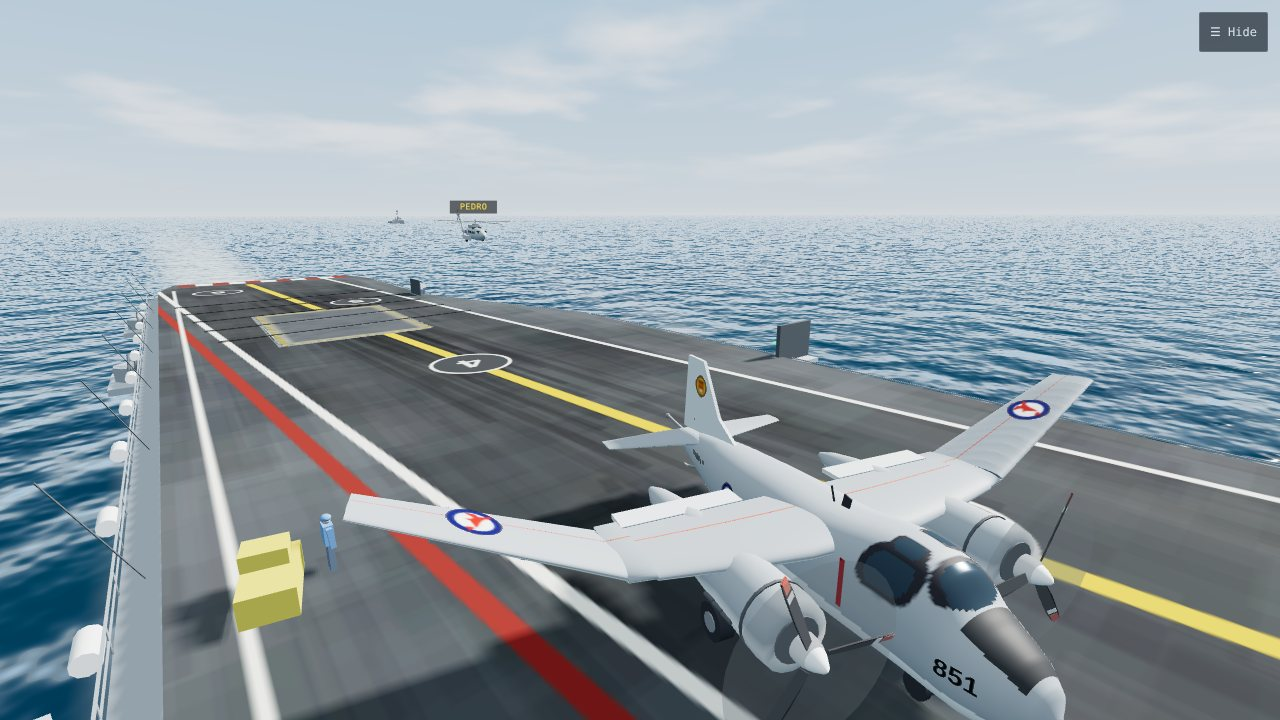
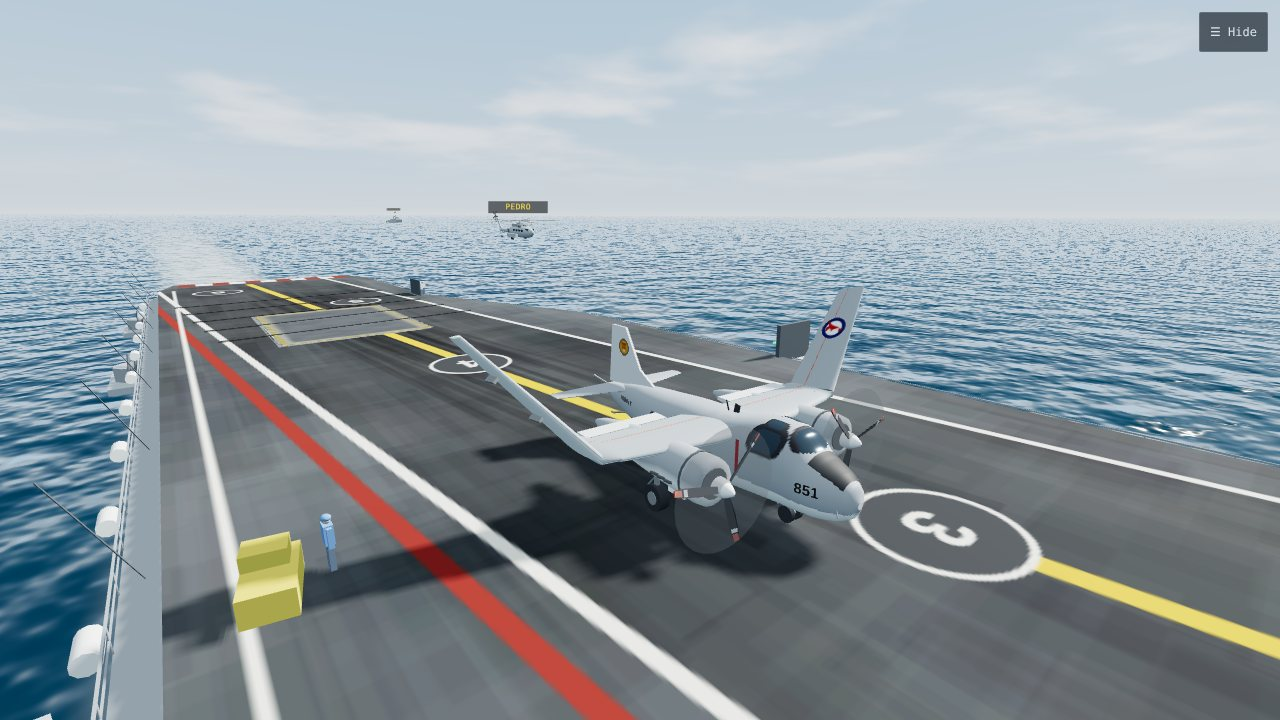
feat: home screen runs a Tracker and a Skyhawk, removes the Sea King, and adds an auto camera director
Blog-Skip: true

Claude-Session: https://claude.ai/code/session_01Gttv1KgUes6MCV2s4wpcqR

diff --git a/index.html b/index.html
@@ -911,10 +911,7 @@ const life=(function(){
   put('red',11,-22,Math.PI/2,'stand');put('red',11,-8,Math.PI/2,'stand');                         // crash crew by the island
   put('blue',12.2,-41,Math.PI/2,'stand');put('blue',9.4,14.6,Math.PI/2,'stand');                 // tractor drivers
   put('white',-13.4,73.5,Math.PI,'stand',DECK_Y-.37);put('white',-14.2,74.8,Math.PI,'stand',DECK_Y-.37);   // LSO platform, facing aft
-  const heloCrew=[put('blue',3.2,-79,PI/2,'stand'),put('yellow',3.2,-88.5,PI/2,'stop')];                 // handlers at helicopter spot 1
 
-  // parked Sea King on spot 1, blades folded
-  const parked=makeSeaKing(true);parked.g.position.set(0,DECK_Y+1.95,-83);ship.add(parked.g);
   // plane guard Sea King, hovering off the port quarter
   const guard=makeSeaKing(false);scene.add(guard.g);
   // name tags over the plane guard ("PEDRO", traditional name for the rescue helicopter on station) and the ships; they fade out with distance
@@ -922,57 +919,114 @@ const life=(function(){
   const melTag=makeTag('HMAS MELBOURNE',ship,48,9);
 
   const sm=x=>x*x*(3-2*x),clamp=(x,lo,hi)=>Math.max(lo,Math.min(hi,x));
-  /* Home screen: one S-2 runs the cycle catapult launch > climb out > away > approach down the angled deck > wire > taxi, wings folding >
-     parked 90 s > taxi to the catapult, wings spreading > launch. Everything is in ship coordinates; the numbers are game values. */
-  const amb={ph:'cat',t:0,x:CATX,z:CATZ,y:0,psi:0,pitch:0,roll:0,v:0,d:0,fold:0,spin:0,gear:1,vis:true},IDQ=new THREE.Quaternion();
-  let homeOn=false,ambClear=false;
-  const resetAmb=()=>Object.assign(amb,{ph:'cat',t:0,x:CATX,z:CATZ,y:0,psi:0,pitch:0,roll:0,v:0,d:0,fold:0,spin:0,gear:1,vis:true});
-  function path(x0,z0,psi0,x1,z1,p){                                          // taxi in an S-curve that ends straight, nose along the deck
-    const dx=(x1-x0)*6*p*(1-p),dz=z1-z0,th=Math.atan2(-dx,-dz);
-    amb.x=x0+(x1-x0)*sm(p);amb.z=z0+dz*p;amb.psi=th+(psi0-th)*(1-sm(clamp(p*4,0,1)));}
-  function stepAmb(dt){
-    const A=amb,t0=A.ph;A.t+=dt;ambClear=false;A.pitch=A.roll=0;
+  /* Home screen: an S-2 Tracker and an A-4G Skyhawk take turns on the catapult and the landing area.
+     Each one: taxi to the catapult (Tracker spreading its wings) > hold > launch > climb out > circle the carrier > base leg >
+     final down the angled deck > wire > taxi clear (Tracker folding its wings) > park > wait > again.
+     Two locks keep them apart: 'fwd' (anything moving on the forward deck or on the catapult) and 'land' (the approach and landing roll).
+     Everything is in ship coordinates; speeds, timings and the circuit are game values. */
+  const wrap=a=>{while(a>PI)a-=2*PI;while(a<-PI)a+=2*PI;return a;};
+  const IDQ=new THREE.Quaternion();
+  const TAN_GS2=TAN_GS,CIRC_R=750,CIRC_CZ=-10,ALT=130,BASE_D=2300,BASE_OFF=300;
+  const RV=[-ANG_DIR.y,ANG_DIR.x];                                              // starboard of the landing line
+  const WAX=-700,WAZ=AZ-ANG_DIR.y*BASE_D+40;                                   // downwind leg runs south to here, then turns left
+  const WBX=AX-ANG_DIR.x*1900-RV[0]*350,WBZ=AZ-ANG_DIR.y*1900-RV[1]*350;       // base leg runs east-north-east to here, 350 m port of the line, then final
+  const CFG={
+    trk:{gh:1.78,gp:0,vCruise:62,vApp:36,vTaxi:4.5,omega:.17,park:[PX,PZ,0],wait:90,fold:true,prop:true,appPitch:.04,climbPitch:.03,
+      toCat:[[0,-34],[-6,-46],[-7,-56]],toPark:[[-3,10],[2,-8],[PX,PZ]]},
+    sky:{gh:1.9,gp:.09,vCruise:80,vApp:46,vTaxi:5.5,omega:.22,park:[8.2,-62,.62],wait:45,fold:false,prop:false,appPitch:.15,climbPitch:.08,
+      toCat:[[0,-58],[-7,-56]],toPark:[[-5,8],[-6,-40],[4,-48],[8.2,-58],[8.2,-62]]}};
+  const mkA=(id,cfg)=>({id,cfg,ph:'park',t:0,x:cfg.park[0],z:cfg.park[1],y:0,psi:cfg.park[2],pitch:cfg.gp,roll:0,v:0,d:0,e:0,fold:cfg.fold?1:0,spin:0,gear:1,vis:true,
+    route:[],ri:0,rTot:1,glide:false,laps:0});
+  const actors=[mkA('trk',CFG.trk),mkA('sky',CFG.sky)];
+  const lock={fwd:null,land:null};
+  const lfree=(n,A)=>lock[n]===null||lock[n]===A,ltake=(n,A)=>{lock[n]=A;},ldrop=(n,A)=>{if(lock[n]===A)lock[n]=null;};
+  let homeOn=false;
+  function resetAmb(){
+    actors[0].cfg=CFG.trk;Object.assign(actors[0],mkA('trk',CFG.trk),{ph:'cat',fold:0,spin:0,x:CATX,z:CATZ,psi:0});
+    Object.assign(actors[1],mkA('sky',CFG.sky),{t:CFG.sky.wait-24});
+    lock.fwd=actors[0];lock.land=null;}
+  const remaining=A=>{let r=0,x=A.x,z=A.z;for(let i=A.ri;i<A.route.length;i++){r+=Math.hypot(A.route[i][0]-x,A.route[i][1]-z);x=A.route[i][0];z=A.route[i][1];}return r;};
+  function beginRoute(A,pts){A.route=pts;A.ri=0;A.rTot=Math.max(1,remaining(A));}
+  const prog=A=>1-clamp(remaining(A)/A.rTot,0,1);
+  function drive(A,dt,spd,fpsi){                                                // follow the route at taxi speed, turning on the spot when the next leg is off the nose
+    if(A.ri<A.route.length){const [tx,tz]=A.route[A.ri],dx=tx-A.x,dz=tz-A.z,dist=Math.hypot(dx,dz);
+      if(dist<.8){A.ri++;return false;}
+      const err=wrap(Math.atan2(-dx,-dz)-A.psi);A.psi+=clamp(err,-1.1*dt,1.1*dt);
+      if(Math.abs(err)<.5){const m=Math.min(spd*dt,dist);A.x+=dx/dist*m;A.z+=dz/dist*m;}
+      return false;}
+    const err=wrap(fpsi-A.psi);A.psi+=clamp(err,-1.1*dt,1.1*dt);return Math.abs(err)<.02;}
+  function fly(A,dt,des,vT,yT,vyMax){                                           // airborne: turn toward a heading, hold a speed, climb or descend
+    const c=A.cfg,om=c.omega,d0=A.psi;
+    A.psi+=clamp(wrap(des-A.psi),-om*dt,om*dt);const dpsi=wrap(A.psi-d0)/Math.max(dt,1e-4);
+    A.roll+=(clamp(Math.atan(dpsi*A.v/9.81),-.7,.7)-A.roll)*Math.min(1,dt*2.5);
+    A.v+=clamp(vT-A.v,-3*dt,6*dt);
+    const vy=clamp((yT-A.y)*.5+(A.ff||0),-Math.max(vyMax*.6,A.sink||0),vyMax);
+    A.x+=-Math.sin(A.psi)*A.v*dt;A.z+=-Math.cos(A.psi)*A.v*dt;A.y+=vy*dt;
+    A.pitch=Math.atan2(vy,A.v)+c.climbPitch;return vy;}
+  function stepActor(A,dt){
+    const c=A.cfg;A.t+=dt;
     switch(A.ph){
-      case 'cat':A.x=CATX;A.z=CATZ;A.y=0;A.psi=0;A.fold=0;A.gear=1;A.spin=Math.max(A.spin,clamp(A.t/3,0,1));
+      case 'park':A.x=c.park[0];A.z=c.park[1];A.psi=c.park[2];A.y=0;A.pitch=c.gp;A.roll=0;A.spin=0;A.fold=c.fold?1:0;A.gear=1;
+        if(A.t>=c.wait&&lfree('fwd',A)){ltake('fwd',A);A.ph='respot';A.t=0;beginRoute(A,c.toCat);}break;
+      case 'respot':{const done=drive(A,dt,c.vTaxi,0),p=prog(A);
+        if(c.prop)A.spin=sm(clamp(p*5,0,1));if(c.fold)A.fold=1-clamp((p-.1)/.6,0,1);
+        if(done){A.ph='cat';A.t=0;}break;}
+      case 'cat':A.x=CATX;A.z=CATZ;A.psi=0;A.y=0;A.pitch=c.gp;A.gear=1;if(c.prop)A.spin=Math.max(A.spin,clamp(A.t/3,0,1));
         if(A.t>7){A.ph='launch';A.t=0;A.v=0;}break;
-      case 'launch':A.v+=25.5*dt;A.z-=A.v*dt;A.spin=1;                 // about 2 s over the 50 m track, 51 m/s at the bow
-        if(A.z<=BOWZ){A.ph='climb';A.t=0;}break;
-      case 'climb':{A.v=Math.min(66,A.v+6*dt);const vy=clamp(A.t/2,0,1)*6.5,tr=clamp((A.t-5)/3,0,1);
-        A.psi+=tr*.085*dt;A.x+=-Math.sin(A.psi)*A.v*dt;A.z+=-Math.cos(A.psi)*A.v*dt;A.y+=vy*dt;
-        A.pitch=Math.atan2(vy,A.v)+.03;A.roll=tr*.32;A.gear=A.t<2.5?1:0;
-        if(A.t>26){A.ph='away';A.t=0;A.vis=false;}break;}
-      case 'away':if(A.t>34){A.ph='appr';A.t=0;A.d=APP_D;A.vis=true;A.gear=1;A.fold=0;A.spin=1;}break;
-      case 'appr':{A.d-=APP_V*dt;const k=clamp(A.d/400,0,1);A.psi=APSI;
-        A.x=AX-ANG_DIR.x*A.d+Math.sin(A.t*.7)*3*k;A.z=AZ-ANG_DIR.y*A.d;A.y=Math.max(0,A.d)*TAN_GS;
-        A.pitch=.04;A.roll=Math.sin(A.t*.7+1)*.05*k;if(A.d<=0){A.ph='arrest';A.t=0;A.y=0;}break;}
-      case 'arrest':{const u=Math.min(A.t,ARR_T),s=APP_V*(u-u*u/(2*ARR_T));A.x=AX+ANG_DIR.x*s;A.z=AZ+ANG_DIR.y*s;A.y=0;A.psi=APSI;
-        A.pitch=Math.max(0,.04*(1-A.t/.6));if(A.t>=ARR_T+2.5){A.ph='taxi';A.t=0;}break;}   // sits for 2.5 s after the wire, then taxis clear
-      case 'taxi':{const p=clamp(A.t/20,0,1);path(SX,SZ,APSI,PX,PZ,p);A.y=0;
-        A.fold=clamp((A.t-5)/10,0,1);A.spin=1-sm(clamp((p-.8)/.2,0,1));
-        if(p>=1){A.ph='park';A.t=0;}break;}
-      case 'park':A.x=PX;A.z=PZ;A.y=0;A.psi=0;A.fold=1;A.spin=0;
-        if(A.t>=PARK_WAIT){A.ph='respot';A.t=0;}break;
-      case 'respot':{const p=clamp(A.t/18,0,1);path(PX,PZ,0,CATX,CATZ,p);A.y=0;
-        A.fold=1-clamp((p-.1)/.6,0,1);A.spin=sm(clamp(p*5,0,1));
-        if(p>=1){A.ph='cat';A.t=0;}break;}
+      case 'launch':A.v+=25.5*dt;A.z-=A.v*dt;if(c.prop)A.spin=1;
+        if(A.z<=BOWZ){A.ph='patrol';A.t=0;A.y=0;A.pitch=c.gp;A.fold=0;}break;
+      case 'patrol':{                                                           // climb out, then circle the carrier counter-clockwise (the ship is on the left)
+        const px=A.x,pz=A.z-CIRC_CZ,r=Math.hypot(px,pz)||1;
+        const des=Math.atan2(-pz/r,px/r)+clamp((r-CIRC_R)/250,-1,1)*.9;
+        fly(A,dt,des,c.vCruise,ALT,6.5*clamp(A.t/2,0,1));A.gear=A.t<2.5?1:0;
+        if(lock.fwd===A&&A.z<-100)ldrop('fwd',A);
+        if(A.t>40&&lfree('land',A)&&px<-300&&pz>-100&&pz<400&&Math.abs(wrap(A.psi-PI))<.9){ltake('land',A);A.ph='base';A.t=0;A.glide=false;A.leg=0;A.laps++;}
+        break;}
+      case 'base':{A.gear=1;const tx=A.leg?WBX:WAX,tz=A.leg?WBZ:WAZ,dx=tx-A.x,dz=tz-A.z;
+        fly(A,dt,Math.atan2(-dx,-dz),c.vCruise,ALT,6);
+        if(Math.hypot(dx,dz)<220){if(A.leg){A.ph='final';A.t=0;}else A.leg=1;}break;}
+      case 'final':{
+        const ex=A.x-AX,ez=A.z-AZ;A.e=ex*RV[0]+ez*RV[1];A.d=-(ex*ANG_DIR.x+ez*ANG_DIR.y);
+        const lt=A.d-600,des=Math.atan2(-(AZ-ANG_DIR.y*lt-A.z)*0-(AX-ANG_DIR.x*lt-A.x),-(AZ-ANG_DIR.y*lt-A.z)),gs=Math.max(0,A.d)*TAN_GS2;   // pure pursuit: steer at the line 600 m ahead
+        
+        if(!A.glide&&A.d<1700&&Math.abs(A.y-gs)<1.5)A.glide=true;
+        const vT=A.d<1500?c.vApp:c.vCruise;
+        A.sink=8;A.ff=A.d<1800?-A.v*TAN_GS2:0;fly(A,dt,des,vT,A.glide?gs:(A.d<1800?gs:ALT),6);A.sink=0;A.ff=0;
+        if(A.glide)A.y=gs;
+        if(A.d<900){const k=1-Math.exp(-dt/4);A.x-=RV[0]*A.e*k;A.z-=RV[1]*A.e*k;}   // ease the last of the line-up error out
+        A.pitch=c.appPitch;A.roll+=(Math.sin(A.t*.7+1)*.04*clamp(A.d/500,0,1)-A.roll)*Math.min(1,dt*2);
+        if(A.d<=0){A.ph='arrest';A.t=0;A.x=AX;A.z=AZ;A.y=0;A.v0=Math.max(25,A.v);A.psi=APSI;A.roll=0;}
+        break;}
+      case 'arrest':{const u=Math.min(A.t,ARR_T),sd=A.v0*(u-u*u/(2*ARR_T));A.x=AX+ANG_DIR.x*sd;A.z=AZ+ANG_DIR.y*sd;A.y=0;A.psi=APSI;
+        A.pitch=Math.max(c.gp,c.appPitch*(1-A.t/.6));A.v=A.v0*Math.max(0,1-u/ARR_T);
+        if(A.t>=ARR_T+2.5&&lfree('fwd',A)){ltake('fwd',A);A.ph='taxi';A.t=0;A.pitch=c.gp;beginRoute(A,c.toPark);}break;}
+      case 'taxi':{const done=drive(A,dt,c.vTaxi,c.park[2]),p=prog(A);A.pitch=c.gp;
+        if(A.z<8)ldrop('land',A);
+        if(c.fold)A.fold=clamp((p-.1)/.35,0,1);if(c.prop)A.spin=1-sm(clamp((p-.8)/.2,0,1));
+        if(done){ldrop('fwd',A);ldrop('land',A);A.ph='park';A.t=0;}break;}
     }
-    ambClear=A.ph==='respot'||A.ph==='cat'||A.ph==='launch';                    // Sea King and handlers are off the deck from the moment the Tracker leaves its parking spot until it has launched
   }
+  let skyGear=null,skyHook=null,sky=null;
+  function attachSky(obj,gear,hook){sky=obj;skyGear=gear;skyHook=hook;}
+  function skyRest(on){if(!sky)return;const c=CFG.sky;sky.position.set(c.park[0],DECK_Y+c.gh,c.park[1]);sky.rotation.set(c.gp,c.park[2],0);
+    if(skyGear)skyGear.visible=true;if(skyHook)skyHook.visible=true;sky.visible=on;}
   function update(dt){
     const t=state.t;lifts[0].target=1;lifts[0].l=1;lifts[0].pf.position.y=liftTop(1);   // forward lift stays flush with the deck
     if(homeOn){
-      stepAmb(dt);const A=amb;
-      s2.visible=A.vis;s2.position.set(A.x,DECK_Y+1.78+A.y,A.z);s2.rotation.set(A.pitch,A.psi,A.roll);
-      for(const l of s2P.legs)l.visible=A.gear>.5;
-      for(const {h,fq} of s2P.hinges)h.quaternion.copy(IDQ).slerp(fq,sm(A.fold));
-      s2P.props.forEach((hub,i)=>{hub.rotation.z+=(i?-1:1)*A.spin*40*dt;});
-      if(s2P.discMat)s2P.discMat.opacity=.3*clamp(A.spin*1.4,0,1);
-      applyHelo();
-    }else s2.visible=false;
+      for(const A of actors)stepActor(A,dt);
+      const T=actors[0],K=actors[1];
+      s2.visible=T.vis;s2.position.set(T.x,DECK_Y+CFG.trk.gh+T.y,T.z);s2.rotation.set(T.pitch,T.psi,T.roll);
+      for(const l of s2P.legs)l.visible=T.gear>.5;
+      for(const {h,fq} of s2P.hinges)h.quaternion.copy(IDQ).slerp(fq,sm(T.fold));
+      s2P.props.forEach((hub,i)=>{hub.rotation.z+=(i?-1:1)*T.spin*40*dt;});
+      if(s2P.discMat)s2P.discMat.opacity=.3*clamp(T.spin*1.4,0,1);
+      if(sky){sky.visible=K.vis;sky.position.set(K.x,DECK_Y+CFG.sky.gh+K.y,K.z);sky.rotation.set(K.pitch,K.psi,K.roll);
+        if(skyGear)skyGear.visible=K.gear>.5;}
+    }else{s2.visible=false;}
     if(typeof ac!=='undefined'&&ac.mode==='air'&&!ac.wrecked)lifts[1].target=1;
     moveLift(lifts[1],dt);
     // catapult signals: circle the arm to turn up, crouch and touch the deck at full power, point on launch
-    if(homeOn){const A=amb,go=A.ph==='cat'&&A.t>5.5;                                                // the home-screen Tracker is on the catapult
+    if(homeOn){const A=actors.find(q=>q.ph==='cat'||q.ph==='launch')||actors[0],go=A.ph==='cat'&&A.t>5.5;   // an aircraft is on the catapult
       shooter.userData.mode=A.ph==='launch'?'point':go?'crouch':A.ph==='cat'?'turnup':'stand';
       holdback.userData.mode=go||A.ph==='launch'?'thumb':'stand';}
     else{const onCat=typeof ac!=='undefined'&&ac.onCat;
@@ -1021,11 +1075,10 @@ const life=(function(){
       r.visible=jbdA>.02;
     }
   }
-  let heloOut=false,playerClear=false;
-  function applyHelo(){heloOut=homeOn?ambClear:playerClear;parked.g.visible=!heloOut;for(const c of heloCrew)c.visible=!heloOut;}   // Tracker launches: helicopter and handlers move off the catapult line
-  function setForwardParkClear(clear){playerClear=clear;applyHelo();}
-  function setHome(on){if(on===homeOn)return;homeOn=on;if(on)resetAmb();s2.visible=on;if(!on)ambClear=false;applyHelo();}   // home screen: the ambient Tracker cycle runs until the player starts a flight
-  return {makeS2,update,lifts,liftDown,setForwardParkClear,setHome,get homeOn(){return homeOn;},get amb(){return amb;},get heloOut(){return heloOut;},guard:guard.g};
+  let playerClear=false;
+  function setForwardParkClear(clear){playerClear=clear;}   // kept for the collision checks: a Tracker or catapult start disables the parked-Skyhawk collision test
+  function setHome(on){if(on===homeOn)return;homeOn=on;if(on)resetAmb();else{lock.fwd=lock.land=null;}s2.visible=on;if(sky)skyRest(!on?(typeof AC==='undefined'||AC.type!=='s2'):true);}   // home screen: the ambient cycle runs until the player starts a flight
+  return {makeS2,update,lifts,liftDown,setForwardParkClear,setHome,attachSky,CFG,actors,get homeOn(){return homeOn;},get heloOut(){return playerClear;},guard:guard.g};
 })();
 
 // name tags over ships and the plane guard: canvas sprite that fades out with distance
@@ -1646,7 +1699,7 @@ function pressKey(k){
   else if(k==='r'){stopTut();track('flight_start',{start:'catapult',source:'key'});resetAircraft('cat');if(!FLY[state.cam])setCam('chase');}
   else if(k==='t'){stopTut();track('flight_start',{start:'approach',source:'key'});resetAircraft('approach');if(!FLY[state.cam])setCam('chase');}
   else if(k==='c')setCam(state.cam==='cockpit'?'chase':'cockpit');
-  else if(k==='o'){view.focus=(view.focus+1)%(escorts.length+1);if(state.cam!=='orbit')setCam('orbit');
+  else if(k==='o'){director.touch();view.focus=(view.focus+1)%(escorts.length+1);if(state.cam!=='orbit')setCam('orbit');
     track('camera_change',{camera:'orbit_'+(view.focus?escorts[view.focus-1].num:'21'),source:'key'});}
 }
 function stepAircraft(dt){
@@ -2055,7 +2108,6 @@ function groundCollide(){ // obstacles on the flight deck
   if(!life.heloOut&&PARKED.some(([x,z])=>Math.hypot(ac.lx-x,ac.lz-z)<8.5)){crash('Collided with a parked aircraft',fast);return true;}
   if(TRACTORS.some(([x,z])=>Math.hypot(ac.lx-x,ac.lz-z)<4.5)){crash('Hit a deck tractor',fast);return true;}
   if(ac.lx>9.3&&ac.lz>-29&&ac.lz<19.5){crash('Hit the island',fast);return true;}
-  if(!life.heloOut&&Math.hypot(ac.lx,ac.lz+83)<5.5){crash('Hit the parked helicopter',fast);return true;}
   for(let i=0;i<LIFT.length;i++){const [lx,lz]=LIFT[i];if(life.liftDown(life.lifts[i])&&Math.abs(ac.lx-lx)<LW/2&&Math.abs(ac.lz-lz)<LD/2){crash('Rolled into an open lift well',fast);return true;}}
   return false;
 }
@@ -3008,7 +3060,7 @@ const view={az:-0.62,el:0.2,dist:340,yaw:0,pitch:0,fly:null,appr:900,cAz:0,cEl:.
 function resetChase(){view.cAz=0;view.cEl=.264;view.cD=25;view.cPx=0;view.cPy=0;}
 const LOOK={deck:{pos:[2.8,DECK_Y+1.8,99],yaw:.096,pitch:-.03,fov:60},island:{pos:[11.7,DECK_Y+9.8,-2],yaw:2.8,pitch:-.28,fov:65}};
 function setCam(name){
-  state.cam=name;view.fly=null;view.appr=900;
+  state.cam=name;view.fly=null;view.appr=900;if(name==='orbit')director.resume();
   if(LOOK[name]){view.yaw=LOOK[name].yaw;view.pitch=LOOK[name].pitch;}
   document.querySelectorAll('#cams button').forEach(b=>b.classList.toggle('on',b.dataset.cam===name));
   if(FLY[name])ac.snap=true;
@@ -3019,9 +3071,81 @@ function setCam(name){
   if(FLY[name]&&AC.type==='s2')$('hint').textContent=$('hint').textContent.replace('\nX twice  eject','');   // no ejection seats in the Tracker
 }
 const tmp=new THREE.Vector3(),tmpQ=new THREE.Quaternion(),tmpE=new THREE.Euler(0,0,0,'YXZ');
+/* ---------- home-screen camera director ---------- */
+const director=(function(){
+  const V=THREE.Vector3,P=new V(),L=new V();
+  let cur=null,patrolBlock=0,patrolFlip=0,reelI=0,lastUser=-1e9;
+  const REEL=[['esc-orbit',0],['carrier-orbit',0],['esc-close',1],['esc-orbit',2],['carrier-bow',0],['esc-bow',0],['esc-close',2],['carrier-orbit',0],['esc-bow',1]];
+  const clampN=(x,a,b)=>Math.max(a,Math.min(b,x));
+  const loc=(x,y,z)=>ship.localToWorld(new V(x,y,z));
+  const wPos=(A,dy)=>loc(A.x,DECK_Y+A.cfg.gh+A.y+(dy||0),A.z);
+  const frame=A=>({f:[-Math.sin(A.psi),-Math.cos(A.psi)],r:[Math.cos(A.psi),-Math.sin(A.psi)]});
+  function cands(){
+    const out=[],patrolOK=state.t>patrolBlock;
+    for(const A of life.actors){
+      if(A.ph==='final'&&A.d<=700)out.push({id:'land-chase',prio:6,A});
+      else if(A.ph==='arrest')out.push({id:'land-deck',prio:6,A});
+      else if(A.ph==='final'&&A.d<=1500)out.push({id:'land-lso',prio:5,A});
+      if(A.ph==='cat'&&A.t>3)out.push({id:'launch-front',prio:6,A});
+      if(A.ph==='launch')out.push({id:'launch-side',prio:6,A});
+      if(A.ph==='patrol'&&A.t<9.5)out.push({id:'launch-orbit',prio:6,A});
+      if(A.ph==='taxi'&&A.cfg.fold&&A.fold>.02&&A.fold<.98)out.push({id:'fold-close',prio:5,A});
+      if(patrolOK&&((A.ph==='patrol'&&A.t>=9.5)||A.ph==='base'||(A.ph==='final'&&A.d>1500)))out.push({id:patrolFlip?'patrol-island':'patrol-side',prio:3,A});
+    }
+    return out.sort((a,b)=>b.prio-a.prio);
+  }
+  function reel(){const [id,arg]=REEL[reelI++%REEL.length];return {id,prio:1,arg,dur:10};}
+  function choose(){
+    const age=cur?state.t-cur.t0:0,cs=cands(),best=cs[0];
+    if(cur&&cur.hold)return;
+    let next=null;
+    if(!cur)next=best||reel();
+    else if(cur.prio>=5){const same=cs.find(c=>c.id===cur.id&&c.A===cur.A);if(!same||(best&&best.prio>cur.prio&&age>2))next=best||reel();}
+    else if(cur.prio===3){const same=cs.find(c=>c.id===cur.id&&c.A===cur.A);
+      if(best&&best.prio>=5)next=best;else if(!same||age>10){patrolBlock=state.t+12;patrolFlip^=1;next=reel();}}
+    else{if(best&&best.prio>=5)next=best;else if(best&&best.prio===3&&age>5)next=best;else if(age>cur.dur)next=reel();}
+    if(next){cur=Object.assign({t0:state.t},next);}
+  }
+  function pose(){
+    const c=cur,A=c.A,age=state.t-c.t0,e=escorts[(c.arg||0)%escorts.length];let fov=45;
+    switch(c.id){
+      case 'land-chase':{const {f,r}=frame(A);P.copy(loc(A.x-f[0]*42+r[0]*7,DECK_Y+A.cfg.gh+A.y+9,A.z-f[1]*42+r[1]*7));L.copy(wPos(A,1)).add(new V(0,0,0));fov=52;break;}
+      case 'land-lso':{P.copy(loc(-13.4,DECK_Y+2.2,73.5));L.copy(wPos(A));const dd=P.distanceTo(L);fov=Math.max(5,Math.min(30,2*Math.atan(22/Math.max(dd,1))*57.3));break;}
+      case 'land-deck':P.copy(loc(-15.5,DECK_Y+2.4,58));L.copy(wPos(A,1));fov=38;break;
+      case 'launch-front':P.copy(loc(CATXY[0]+3,DECK_Y+2.2,-92+(A.t-3)*1.5));L.copy(wPos(A,.8));fov=34;break;
+      case 'launch-side':P.copy(loc(-17,DECK_Y+3.2,-76));L.copy(wPos(A));fov=42;break;
+      case 'launch-orbit':{const {f,r}=frame(A),ph=-.35+age*.5,R=58;
+        P.copy(loc(A.x+(f[0]*Math.cos(ph)+r[0]*Math.sin(ph))*R,DECK_Y+A.cfg.gh+A.y+14,A.z+(f[1]*Math.cos(ph)+r[1]*Math.sin(ph))*R));L.copy(wPos(A));fov=48;break;}
+      case 'fold-close':{const ph=.9+age*.35,R=24;
+        P.copy(loc(A.x+Math.sin(ph)*R,DECK_Y+4.5,A.z+Math.cos(ph)*R));L.copy(wPos(A,1.5));fov=45;break;}
+      case 'patrol-side':{const {f,r}=frame(A);                                   // alongside on the outside of the circle, the carrier behind
+        P.copy(loc(A.x+r[0]*55-f[0]*10,DECK_Y+A.cfg.gh+A.y+8,A.z+r[1]*55-f[1]*10));L.copy(wPos(A));fov=40;break;}
+      case 'patrol-island':P.copy(loc(11.5,DECK_Y+22,-6));L.copy(wPos(A));fov=15;break;
+      case 'esc-orbit':{const C=e.g.position,R=e.L*1.2,az=(c.arg||0)*2+age*.15,el=.14;
+        P.set(C.x+R*Math.cos(el)*Math.sin(az),C.y+9+R*Math.sin(el),C.z+R*Math.cos(el)*Math.cos(az));L.set(C.x,C.y+9,C.z);fov=42;break;}
+      case 'esc-close':{const lz=-e.L*.3+age*5,sd=(c.arg||0)%2?1:-1;
+        P.copy(e.g.localToWorld(new V(sd*(e.B/2+45),14,lz)));L.copy(e.g.localToWorld(new V(0,9,lz+2)));fov=44;break;}
+      case 'esc-bow':P.copy(e.g.localToWorld(new V(e.B*.8,5,-e.L/2-30+age*.8)));L.copy(e.g.localToWorld(new V(0,7,-e.L/2+10)));fov=48;break;
+      case 'carrier-bow':P.copy(loc(-28,6,-128+age*1.2));L.copy(loc(0,14,-62));fov=55;break;
+      default:{const sp=ship.position,R=320,az=1+age*.12,el=.2;                    // carrier-orbit
+        P.set(sp.x+R*Math.cos(el)*Math.sin(az),12+R*Math.sin(el),sp.z+R*Math.cos(el)*Math.cos(az));L.set(sp.x,12,sp.z);fov=50;}
+    }
+    return fov;
+  }
+  const CATXY=[-7];
+  return {
+    active(){return life.homeOn&&state.cam==='orbit'&&!view.focus&&performance.now()-lastUser>9000;},
+    touch(){lastUser=performance.now();},resume(){lastUser=-1e9;},
+    force(id,arg,A){cur={id,arg:arg||0,A:A||life.actors[0],prio:9,t0:state.t,hold:true};},
+    get id(){return cur&&cur.id;},
+    apply(){choose();const fov=pose();
+      camera.position.copy(P);camera.position.y=Math.max(camera.position.y,waveHeight(P.x,P.z,state.t)+2);camera.lookAt(L);return fov;}
+  };
+})();
 function updateCamera(dt){
   const sp=ship.position;let fov=50;
-  if(state.cam==='orbit'){
+  if(state.cam==='orbit'&&director.active()){fov=director.apply();}
+  else if(state.cam==='orbit'){
     const ce=Math.cos(view.el);
     camera.position.set(sp.x+view.dist*ce*Math.sin(view.az),10+view.dist*Math.sin(view.el),sp.z+view.dist*ce*Math.cos(view.az));
     camera.position.y=Math.max(camera.position.y,waveHeight(camera.position.x,camera.position.z,state.t)+2);
@@ -3078,14 +3202,14 @@ canvas.addEventListener('pointermove',e=>{
     const [a,b]=[...ptrs.values()],d=Math.hypot(a[0]-b[0],a[1]-b[1]);
     if(pinch)zoom(pinch/d);pinch=d;return;
   }
-  if(state.cam==='orbit'){view.az-=dx*.005;view.el=Math.min(1.45,Math.max(-.02,view.el+dy*.004));}
+  if(state.cam==='orbit'){director.touch();view.az-=dx*.005;view.el=Math.min(1.45,Math.max(-.02,view.el+dy*.004));}
   else if(state.cam==='chase'){
     if(p[2]){const k=view.cD*.0015;view.cPx=Math.max(-40,Math.min(40,view.cPx-dx*k));view.cPy=Math.max(-25,Math.min(25,view.cPy+dy*k));}
     else{view.cAz-=dx*.006;view.cEl=Math.min(1.4,Math.max(-.3,view.cEl+dy*.005));}
   }
   else if(LOOK[state.cam]){view.yaw+=dx*.003;view.pitch=Math.min(1.2,Math.max(-1.2,view.pitch+dy*.003));}
 });
-function zoom(f){if(state.cam==='chase'){view.cD=Math.min(120,Math.max(8,view.cD*f));return;}view.dist=Math.min(2500,Math.max(70,view.dist*f));}
+function zoom(f){director.touch();if(state.cam==='chase'){view.cD=Math.min(120,Math.max(8,view.cD*f));return;}view.dist=Math.min(2500,Math.max(70,view.dist*f));}
 canvas.addEventListener('wheel',e=>{e.preventDefault();zoom(Math.exp(e.deltaY*.001));},{passive:false});
 const CAMS=['orbit','deck','island','approach','flyby','cockpit','chase'];
 const FLIGHT_KEYS=new Set(['arrowup','arrowdown','arrowleft','arrowright',' ','pageup','pagedown']);
@@ -3197,6 +3321,8 @@ ac.gear=true;ac.flap=0;ac.hook=ac.brake=false;animateParts(0,true);
 const parkedSky=[];
 for(const [x,z,psi] of [[8.2,-62,.62],[8.2,-74,.62],[8.2,-86,.62]]){              // spare Skyhawks parked forward of the island
   for(const m of parts.crew)m.visible=false;const p=plane.clone(true);for(const m of parts.crew)m.visible=true;p.rotation.order='YXZ';p.position.set(x,DECK_Y+AC.gearH,z);p.rotation.set(AC.sit,psi,0);ship.add(p);parkedSky.push(p);}
+{const src=[],dst=[];plane.traverse(o=>src.push(o));parkedSky[0].traverse(o=>dst.push(o));   // the first parked Skyhawk is the home-screen aircraft: find its gear and hook in the clone
+  const pick=o=>dst[src.indexOf(o)];life.attachSky(parkedSky[0],pick(gearG),pick(hookG));}
 const s2F=life.makeS2(true),partsS2=s2F.userData.P;s2F.visible=false;plane.add(s2F);
 function setType(k){
   Object.assign(AC,TYPES[k]);AC.type=k;a4G.visible=k==='a4';life.setForwardParkClear(k==='s2');for(const p of parkedSky)p.visible=k!=='s2';s2F.visible=k==='s2';parts=k==='a4'?partsA4:partsS2;
@@ -3207,7 +3333,7 @@ function nextAircraft(){selectAircraft(AC.type==='a4'?'s2':'a4');}
 function selectAircraft(k){if(k===AC.type)return;stopTut();setType(k);track('aircraft_select',{aircraft:AC.type});resetAircraft('cat');if(!FLY[state.cam])setCam('chase');say('Now flying the '+AC.name+'. On the catapult.',5);}
 ship.updateMatrixWorld(true);resetAircraft('cat');setCam('orbit');life.setHome(true);track('sim_ready');
 document.querySelectorAll('#title a').forEach(a=>a.addEventListener('click',()=>track('outbound_click',{link:a.classList.contains('coffee')?'coffee':a.href.startsWith('mailto:')?'contact':'malgordon',link_url:a.href})));
-window.__sim={crash,ms,wp,tg,tank,prj,wcount,startMission,MISSIONS,loadStores,FUEL,STORE,PRESETS,PRESETS2,wlist,wsel,prog,openMsn,openLo,closeUi,engineFuel,dropBomb,fireAim,fireGun,fireRocket,placeAir,endMissionFree,crewRig,ejRig,POSES,setPose,escorts,escortHit,life,setType,AC,state,setCam,view,ship,mot,ac,keys,resetAircraft,pressKey,lso,LSOQ,updateLSO,
+window.__sim={director,crash,ms,wp,tg,tank,prj,wcount,startMission,MISSIONS,loadStores,FUEL,STORE,PRESETS,PRESETS2,wlist,wsel,prog,openMsn,openLo,closeUi,engineFuel,dropBomb,fireAim,fireGun,fireRocket,placeAir,endMissionFree,crewRig,ejRig,POSES,setPose,escorts,escortHit,life,setType,AC,state,setCam,view,ship,mot,ac,keys,resetAircraft,pressKey,lso,LSOQ,updateLSO,
   advance(sec){for(let i=0;i<sec*60;i++){state.t+=1/60;updateShip(1/60);ship.updateMatrixWorld(true);updateEscorts(1/60);life.update(1/60);stepAircraft(1/60);updateLSO(1/60);updateEject(1/60);updateFx(1/60);updateTut(1/60);}},tut,startLesson,ej,stats,eject,audio:()=>({state:actx&&actx.state,roar:actx&&au.roar.g.gain.value,whine:actx&&au.whineG.gain.value,muted})};
 requestAnimationFrame(frame);
 })();

diff --git a/content/posts/home-screen-deck-cycle.md b/content/posts/home-screen-deck-cycle.md
@@ -2,27 +2,28 @@
 title: "The home screen now has a working flight deck"
 date: 2026-11-25T15:28+08:00
 categories: [dev-diary, aircraft]
-summary: "A Tracker now launches, recovers, folds its wings and parks on the home screen, then is spotted for the catapult again. The lift routine is gone."
+summary: "A Tracker and a Skyhawk now take turns launching, circling the carrier, recovering and parking on the home screen. The Tracker folds its wings. The lift routine and the helicopter are gone."
 shot: s53-home-fold
-hero_alt: "Island camera view of an S-2 Tracker taxiing on the flight deck with one outer wing panel folded up and the other still extending."
+hero_alt: "Island camera view of an S-2 Tracker on the flight deck with one outer wing panel folded up and the other part-way."
 ---
-The home screen used to show a Tracker being towed onto the forward lift, lowered and brought back. That routine is gone. One S-2 now runs a full deck cycle, so the ship looks busy while you choose what to fly.
+One S-2 Tracker and one A-4G Skyhawk now work the deck on the home screen, so the ship looks busy while you choose what to fly. The old routine of towing a Tracker up and down the lift is gone, and so is the Sea King on the forward spot.
 
 ## The cycle
 
-- **Launch.** The Tracker sits on the catapult with its wings out and propellers turning, then goes down the track and off the bow. The catapult crew give the turn-up, crouch and launch signals.
-- **Recovery.** After a few minutes it comes back down the glidepath onto the angled deck, catches a wire and stops.
-- **Fold and park.** It taxis clear and folds its outer wings up and back as it goes, then parks forward of the island with the propellers stopped.
-- **Respot.** After 90 seconds parked it taxis to the catapult, spreading its wings on the way, and launches again.
+- **Launch.** Each aircraft sits on the catapult, then goes down the track and off the bow. The Tracker has its wings out and propellers turning. The catapult crew give the turn-up, crouch and launch signals.
+- **Patrol.** The aircraft climbs out and circles the carrier counter-clockwise at about 750 m radius and 130 m altitude.
+- **Recovery.** It turns onto a base leg, lines up on the angled deck, comes down the 3.5 degree glidepath and catches a wire.
+- **Fold and park.** The Tracker taxis clear, folds its outer wings up and back as it goes, and parks forward of the island with the propellers stopped. The Skyhawk parks on the forward deck. It does not fold anything.
+- **Respot.** After a wait (90 seconds for the Tracker, 45 for the Skyhawk) it taxis to the catapult and goes again. Only one aircraft uses the catapult or the landing area at a time, so the other waits its turn.
 
 ## Try it
 
-Open the home screen with the orbit, deck or island camera and watch. The cycle stops as soon as you start a flight (catapult, approach, tutorial or mission), and the catapult is yours.
+Open the home screen with the orbit camera (key 1) and watch. The cycle stops as soon as you start a flight (catapult, approach, tutorial or mission), and the deck is yours. The camera work is covered in a separate post.
 
 ## Still approximate
 
-- The speeds, timings and the flight path out of sight are game values, not RAN procedure.
-- The Tracker taxis under its own power. The tractor and tow crew from the old routine have been removed.
-- The Sea King and its handlers on the forward helicopter spot are cleared from the deck while the Tracker is respotted and launched, because its wing would pass through the helicopter. They come back once it is airborne. The sim does the same when you launch a Tracker yourself.
-- The Skyhawk that used to sit on the catapult on the home screen is hidden while the cycle runs. It reappears when you start a flight.
+- The speeds, timings and the circuit are game values, not RAN procedure.
+- Both aircraft taxi under their own power. The tractor and tow crew from the old routine have been removed.
+- The Sea King is no longer on the deck at all. The PEDRO plane guard helicopter still flies off the quarter.
+- Of the three Skyhawks parked forward, the first one is the home-screen aircraft. The Skyhawk that used to sit on the catapult is hidden while the cycle runs, and everything returns to normal when you start a flight.
 - There is no engine sound for the home-screen aircraft yet.

diff --git a/content/posts/home-screen-camera-director.md b/content/posts/home-screen-camera-director.md
@@ -1,0 +1,29 @@
+---
+title: "The home screen now cuts between launches, landings and the escorts"
+date: 2026-11-25T16:10+08:00
+categories: [dev-diary, camera]
+summary: "On the home screen the orbit camera now cuts between a chase view of each landing, a front view and orbit of each launch, patrol shots, and close-ups of the escort ships."
+shot: s54-home-chase
+hero_alt: "Chase view from behind a Skyhawk on final approach, with the carrier and her wake ahead."
+---
+The home screen camera used to circle the ship on a fixed orbit. It now picks shots the way a documentary crew might, and cuts to whatever is happening.
+
+## What it shows
+
+- **Landings.** A chase view behind the aircraft on final, a long lens from the LSO platform, and a low view along the deck as it catches a wire.
+- **Launches.** A front view of the aircraft on the catapult, a view from the side, and a slow orbit around it as it goes off the bow.
+- **Fold and park.** A close view of the Tracker folding its wings.
+- **Patrol.** A view alongside the aircraft as it circles the carrier, and a long lens from the island.
+- **Escorts and carrier.** Between events it alternates ten-second shots of HMAS Perth, Derwent and Supply (an orbit, a close pass along the side, a view of the bow) with orbits and bow views of the carrier.
+
+Landings and launches take priority, then the fold, then patrol shots, then the escort and carrier reel.
+
+## Try it
+
+Open the home screen with the orbit camera (key 1). Drag or scroll and the automatic camera pauses for about nine seconds, then resumes. Pressing 1 again brings it straight back. Pressing O to orbit an escort turns it off until you cycle back to the carrier. Starting a flight ends the home cycle and the camera.
+
+## Still approximate
+
+- Shot positions and timings are tuned by eye, not a script. A shot can start with the aircraft small in frame, such as the LSO view at the start of the final approach.
+- The camera is cut by the game, not blended, and it stays above the waves.
+- There is no sound change between shots.
